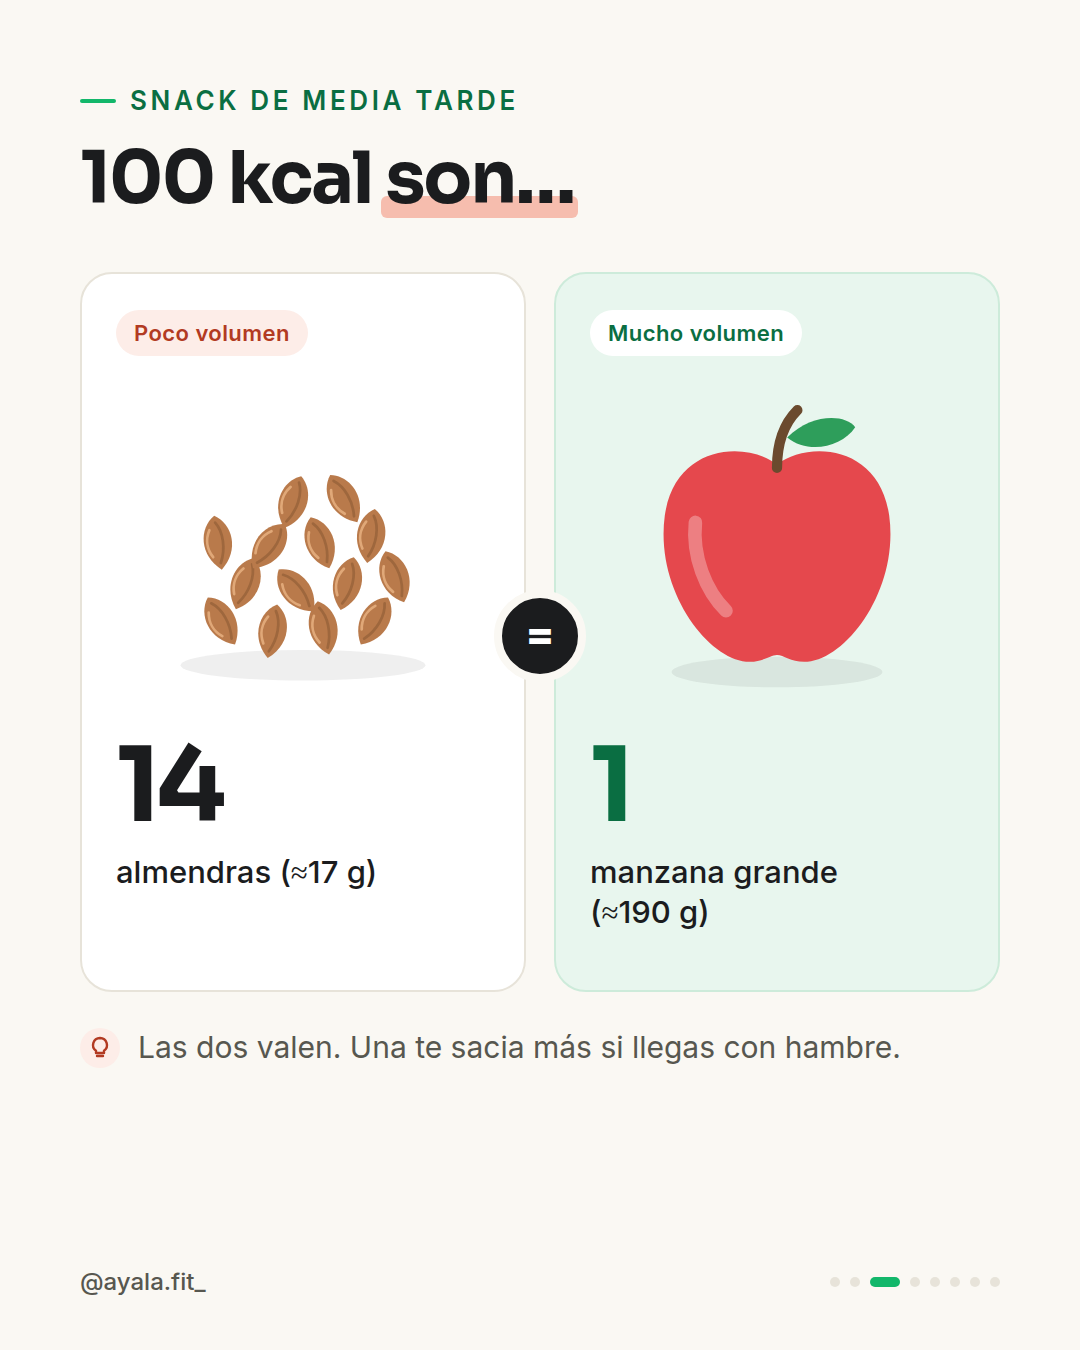
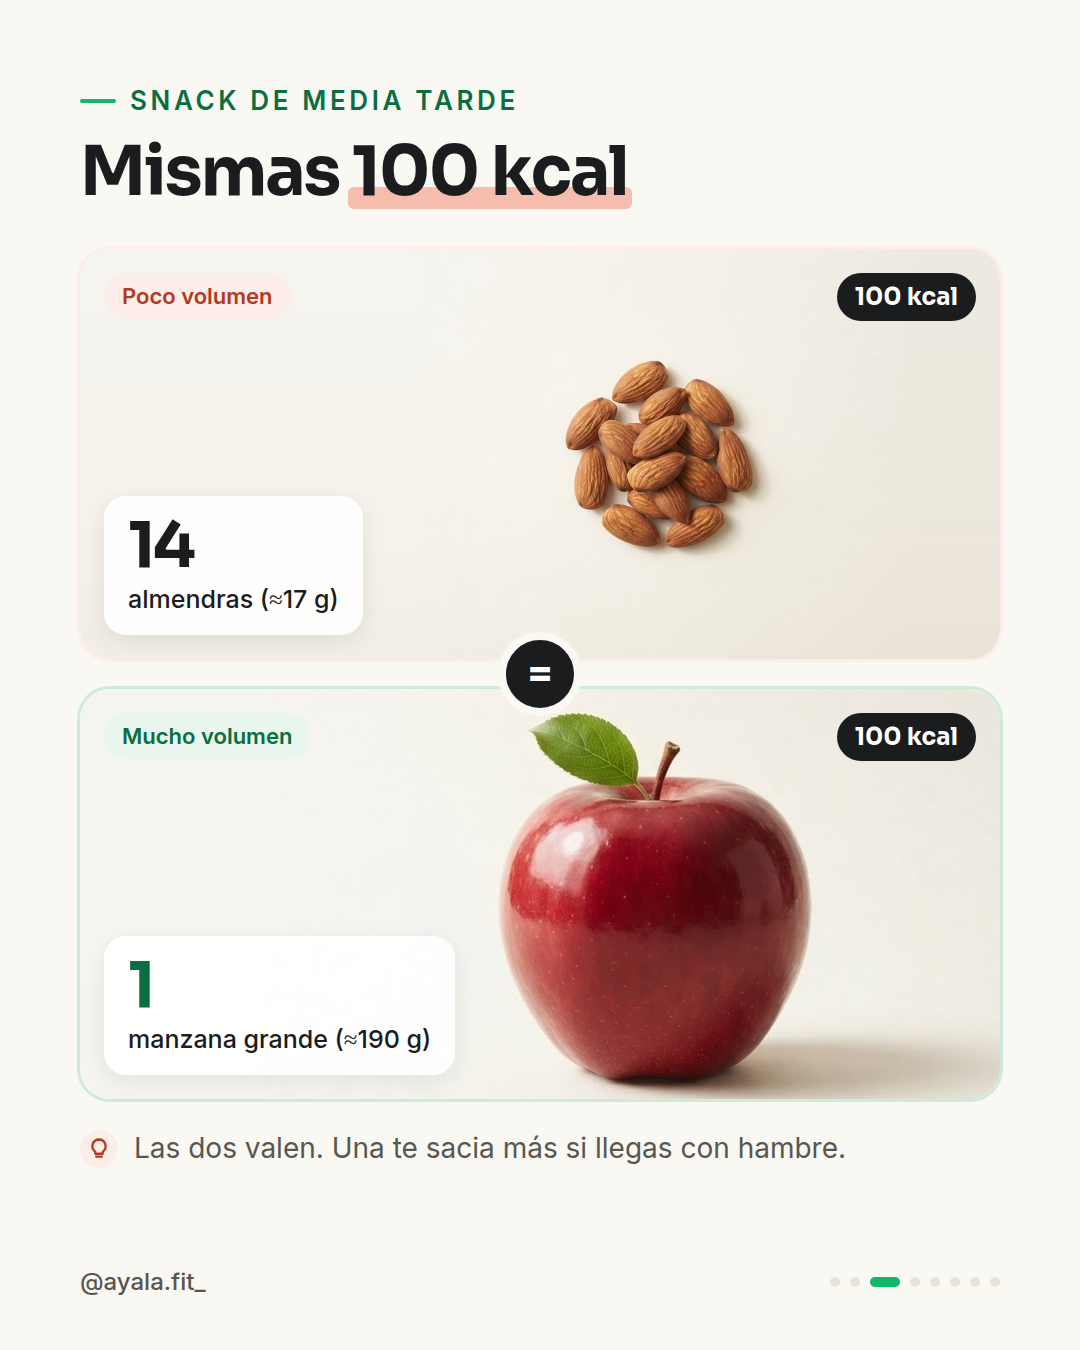
Carousel: real food photos, stacked comparison panels, photo edits
Claude-Session: https://claude.ai/code/session_01ByNJ1snhd2fQKrJs8oPBnZ

diff --git a/content/carruseles/100-calorias/editar_fotos.py b/content/carruseles/100-calorias/editar_fotos.py
@@ -1,0 +1,129 @@
+"""Edita las fotos de fotos/ y las deja en fotos/editadas/ listas para el carrusel.
+
+- Encuadre por alimento: la ración "densa" se ve pequeña con mucho aire alrededor
+  y la de "mucho volumen" llena el panel, para exagerar el contraste.
+- El fondo se extiende replicando los bordes cuando el encuadre se sale de la foto.
+- Claras: se borran 2 cáscaras (8 → 6) para que cuadre con 100 kcal.
+
+Uso: python3 content/carruseles/100-calorias/editar_fotos.py   (requiere pillow + numpy)
+"""
+from pathlib import Path
+
+import numpy as np
+from PIL import Image, ImageDraw, ImageFilter
+
+HERE = Path(__file__).parent
+SRC = HERE / "fotos"
+OUT = SRC / "editadas"
+PANEL = (1840, 820)  # 2× el panel del carrusel (920×410)
+TILE = (540, 540)  # 2× la baldosa de portada
+SHIFT = 0.13  # el alimento se desplaza a la derecha para dejar sitio a la ficha de texto (abajo a la izquierda)
+
+# alimento: (centro x, centro y, alto del sujeto en px de la foto, fracción del panel que ocupa)
+FRAMING = {
+    "aceite": (600, 500, 310, 0.52),
+    "fresas": (515, 520, 560, 0.94),
+    "almendras": (510, 505, 390, 0.46),
+    "manzana": (515, 505, 470, 0.92),
+    "chocolate": (510, 495, 380, 0.46),
+    "sandia": (702, 385, 470, 0.93),
+    "refresco": (700, 368, 600, 0.78),
+    "palomitas": (705, 392, 490, 0.9),
+    "pollo": (700, 388, 555, 0.88),
+    "claras": (703, 360, 545, 0.88),
+}
+
+# Para la portada: (centro x, centro y, lado del recorte cuadrado)
+TILE_CROP = {
+    "aceite": (560, 500, 620),
+    "fresas": (515, 520, 640),
+    "almendras": (510, 505, 560),
+    "manzana": (515, 505, 580),
+    "chocolate": (510, 495, 620),
+    "sandia": (702, 385, 600),
+}
+
+
+def extend(img: Image.Image, pad: int) -> Image.Image:
+    """Amplía el lienzo replicando los bordes y suaviza la zona añadida."""
+    arr = np.asarray(img)
+    big = Image.fromarray(np.pad(arr, ((pad, pad), (pad, pad), (0, 0)), mode="edge"))
+    blurred = big.filter(ImageFilter.GaussianBlur(40))
+    mask = Image.new("L", big.size, 255)
+    ImageDraw.Draw(mask).rectangle((pad + 24, pad + 24, pad + img.width - 25, pad + img.height - 25), fill=0)
+    mask = mask.filter(ImageFilter.GaussianBlur(24))
+    return Image.composite(blurred, big, mask)
+
+
+def crop(img: Image.Image, cx: float, cy: float, w: float, h: float, size) -> Image.Image:
+    pad = int(max(w, h))
+    big = extend(img, pad)
+    box = (cx - w / 2 + pad, cy - h / 2 + pad, cx + w / 2 + pad, cy + h / 2 + pad)
+    return big.crop(tuple(round(v) for v in box)).resize(size, Image.LANCZOS)
+
+
+# Claras (foto 1408×768): centros de las 8 cáscaras y del bol.
+SHELLS = [(705, 145), (518, 230), (887, 230), (455, 385), (952, 385), (518, 545), (705, 600), (882, 545)]
+BOWL = (705, 395, 172)
+REMOVE = [(455, 385), (952, 385)]  # izquierda y derecha del medio → quedan 6
+
+
+def box_blur(a: np.ndarray, r: int, passes: int = 3) -> np.ndarray:
+    """Desenfoque casi gaussiano en coma flotante (3 pasadas de caja, bordes replicados)."""
+    for _ in range(passes):
+        for axis in (0, 1):
+            pad = [(0, 0)] * a.ndim
+            pad[axis] = (r + 1, r)
+            c = np.cumsum(np.pad(a, pad, mode="edge"), axis=axis, dtype=np.float64)
+            hi = np.take(c, range(2 * r + 1, c.shape[axis]), axis=axis)
+            lo = np.take(c, range(0, c.shape[axis] - 2 * r - 1), axis=axis)
+            a = ((hi - lo) / (2 * r + 1)).astype(np.float32)
+    return a
+
+
+def remove_shells(img: Image.Image) -> Image.Image:
+    """Borra 2 cáscaras reconstruyendo el fondo con un desenfoque normalizado que ignora los objetos."""
+    w, h = img.size
+    objects = Image.new("L", (w, h), 0)
+    d = ImageDraw.Draw(objects)
+    for x, y in SHELLS:  # cáscara + su sombra (la luz viene de la izquierda)
+        d.ellipse((x - 84, y - 84, x + 84, y + 84), fill=255)
+        d.ellipse((x - 60, y - 76, x + 170, y + 130), fill=255)
+    bx, by, br = BOWL
+    d.ellipse((bx - br - 30, by - br - 30, bx + br + 60, by + br + 50), fill=255)
+
+    arr = np.asarray(img).astype(np.float32)
+    known = 1 - np.asarray(objects).astype(np.float32)[..., None] / 255
+    num = box_blur(arr * known, 60)
+    den = box_blur(known, 60)
+    bg = num / np.maximum(den, 1e-4)
+    bg += np.random.default_rng(1).normal(0, 1.2, bg.shape)  # grano suave para que no quede plano
+
+    hole = Image.new("L", (w, h), 0)
+    dh = ImageDraw.Draw(hole)
+    for x, y in REMOVE:
+        dh.ellipse((x - 100, y - 100, x + 100, y + 100), fill=255)
+        dh.ellipse((x - 50, y - 72, x + 160, y + 124), fill=255)
+    hole = hole.filter(ImageFilter.GaussianBlur(10))
+    ImageDraw.Draw(hole).ellipse((bx - br - 4, by - br - 4, bx + br + 4, by + br + 4), fill=0)  # el bol no se toca
+    hole = np.asarray(hole.filter(ImageFilter.GaussianBlur(3))).astype(np.float32)[..., None] / 255
+    return Image.fromarray((arr * (1 - hole) + bg * hole).clip(0, 255).astype(np.uint8))
+
+
+def main() -> None:
+    OUT.mkdir(parents=True, exist_ok=True)
+    for food, (cx, cy, subject, frac) in FRAMING.items():
+        img = Image.open(SRC / f"{food}.jpg").convert("RGB")
+        if food == "claras":
+            img = remove_shells(img)
+        h = subject / frac
+        w = h * PANEL[0] / PANEL[1]
+        crop(img, cx - SHIFT * w, cy, w, h, PANEL).save(OUT / f"{food}.jpg", quality=92)
+        if food in TILE_CROP:
+            tx, ty, side = TILE_CROP[food]
+            crop(img, tx, ty, side, side, TILE).save(OUT / f"{food}-tile.jpg", quality=92)
+        print(food)
+
+
+if __name__ == "__main__":
+    main()

diff --git a/content/carruseles/100-calorias/README.md b/content/carruseles/100-calorias/README.md
@@ -17,7 +17,7 @@ Cantidades aproximadas (tablas BEDCA/USDA, redondeadas).
 
 **Regenerar:** `node content/carruseles/100-calorias/generar.mjs` (requiere `npm ci`).
 
-**Fotos reales:** mete fotos en `fotos/` con estos nombres (jpg, png o webp) y vuelve a generar. Cada foto sustituye a su ilustración: `aceite`, `fresas`, `almendras`, `manzana`, `chocolate`, `sandia`, `refresco`, `palomitas`, `pollo`, `claras`.
+**Fotos reales:** las originales van en `fotos/` (`aceite`, `fresas`, `almendras`, `manzana`, `chocolate`, `sandia`, `refresco`, `palomitas`, `pollo`, `claras`). `python3 content/carruseles/100-calorias/editar_fotos.py` (pillow + numpy) las encuadra en `fotos/editadas/` —ración densa pequeña, ración ligera llenando el panel— y quita 2 cáscaras a las claras (8 → 6). Después, `generar.mjs`.
 
 **Pendiente:** slides con fotos de Nil y texto encima al estilo del post de referencia.
 
